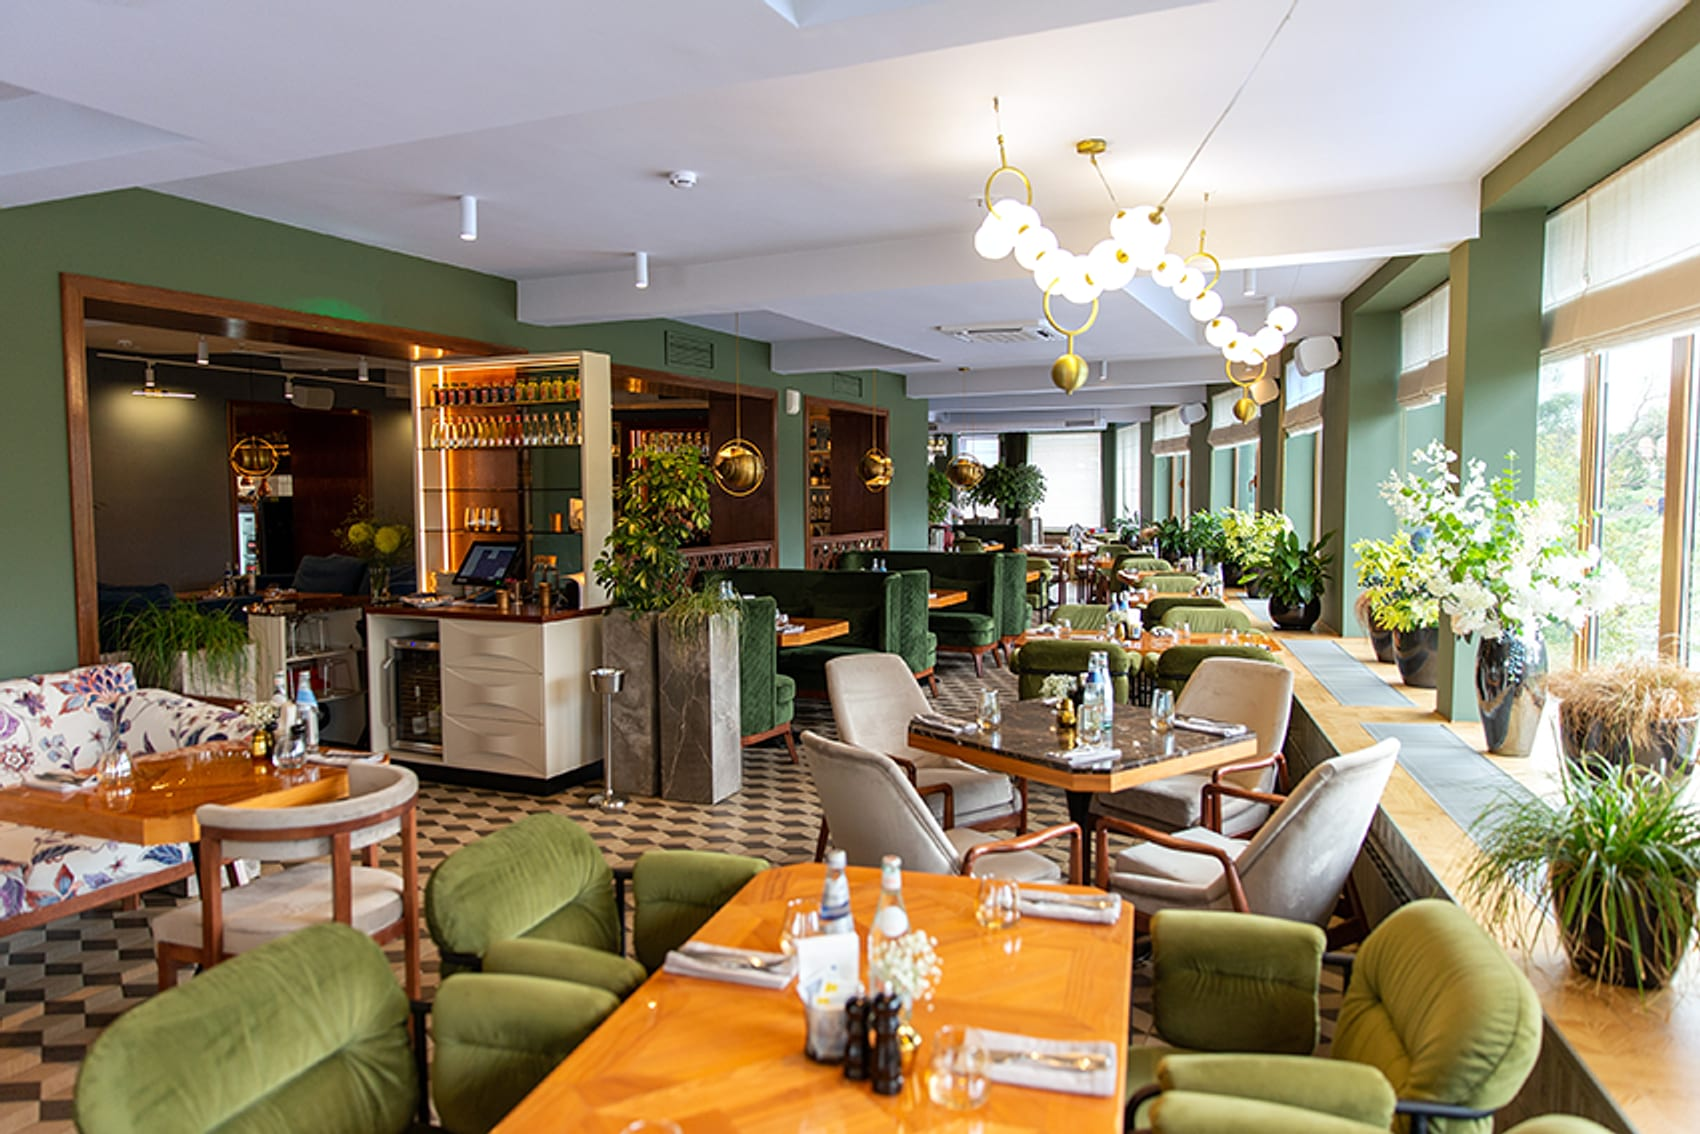
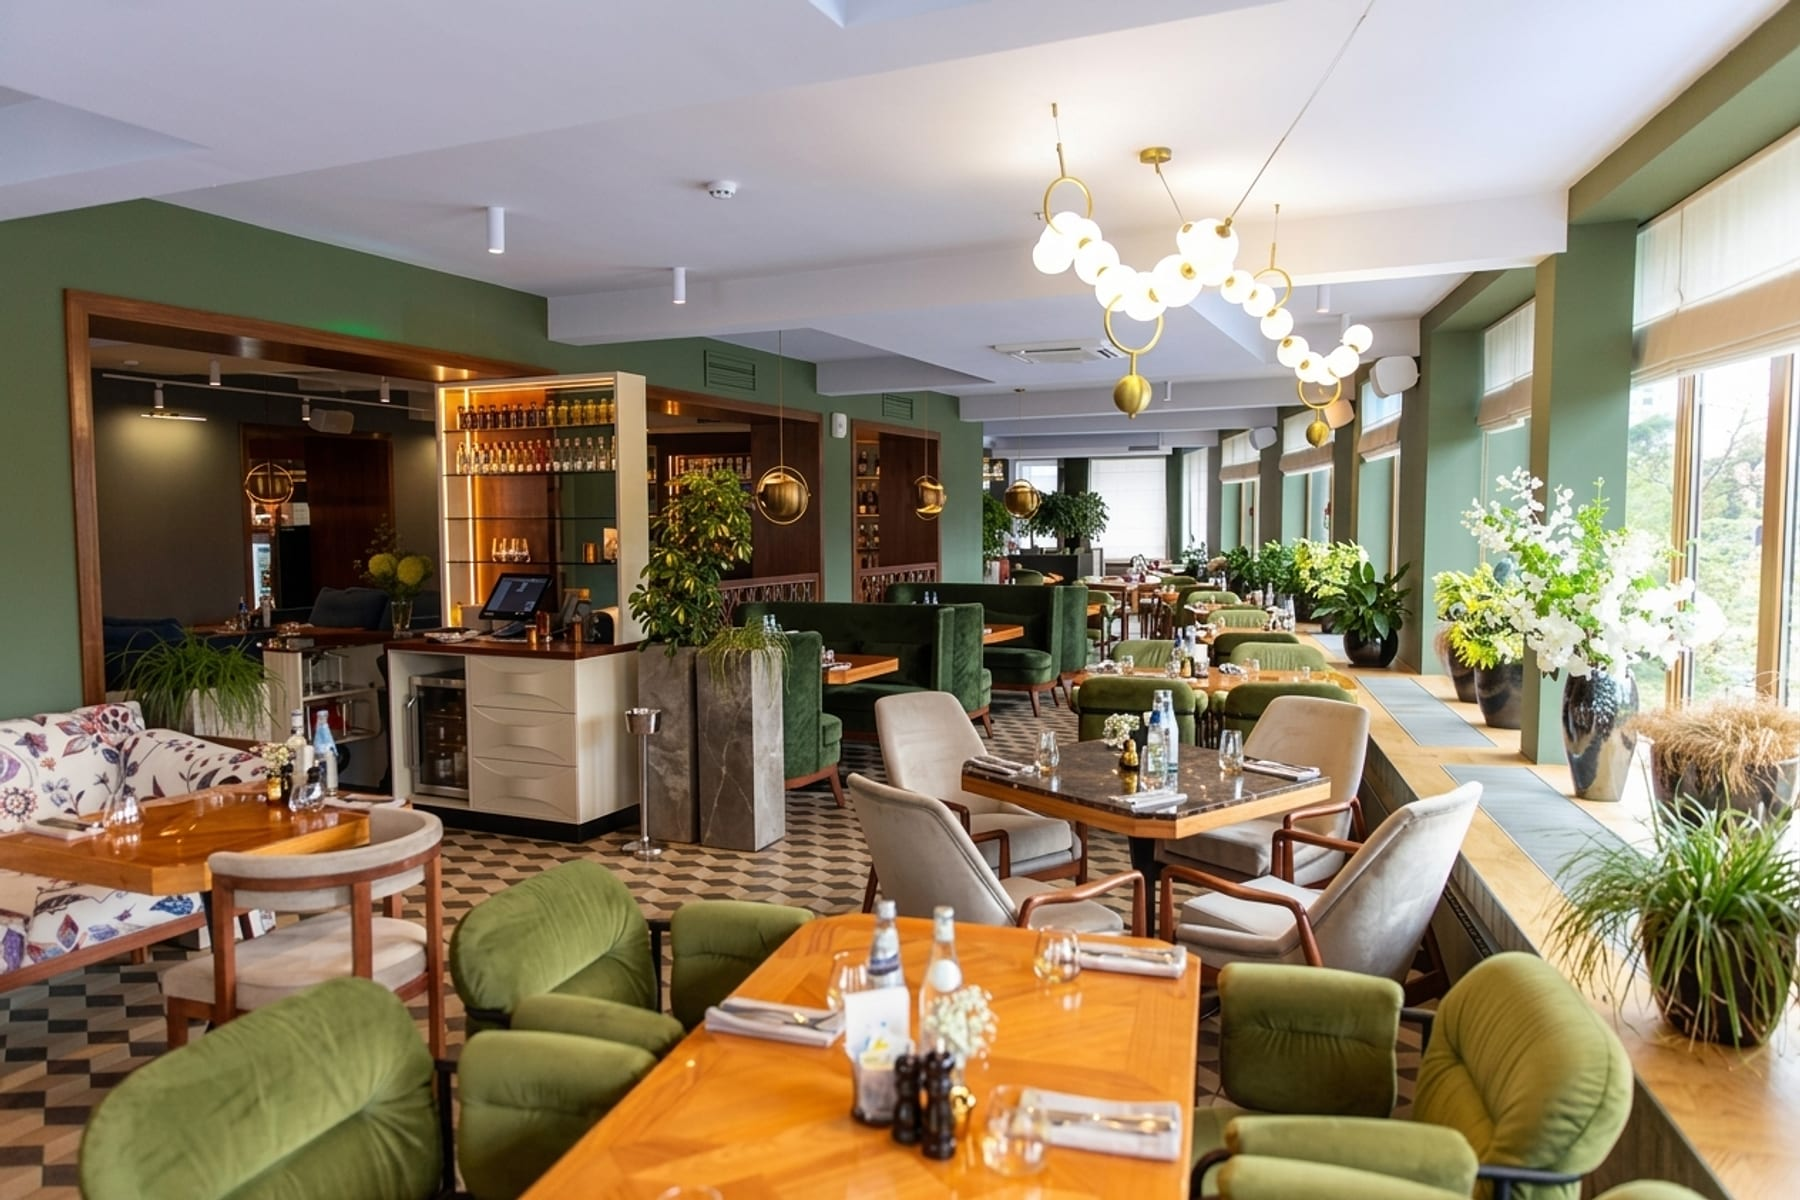
Scherpe herofoto: opgeschaalde versie verwerkt
De via Gemini opgeschaalde interieurfoto (1264px, aangeleverd via
GitHub) is verwerkt naar 1800px met lichte naverscherping en vervangt
de zachte versie. Het losse bronbestand is uit de root verwijderd.

Claude-Session: https://claude.ai/code/session_01VpY9yyUWCbUSeLzquXFRhv

diff --git a/src/routes/index.tsx b/src/routes/index.tsx
@@ -55,8 +55,8 @@ function HomePage() {
         <img
           src={heroImg}
           alt="Restaurantinterieur met saliegroene muren, olijfgroene stoelen en veel planten"
-          width={1700}
-          height={1134}
+          width={1800}
+          height={1200}
           fetchPriority="high"
           className="kenburns absolute inset-0 h-full w-full object-cover object-[42%_58%]"
         />
